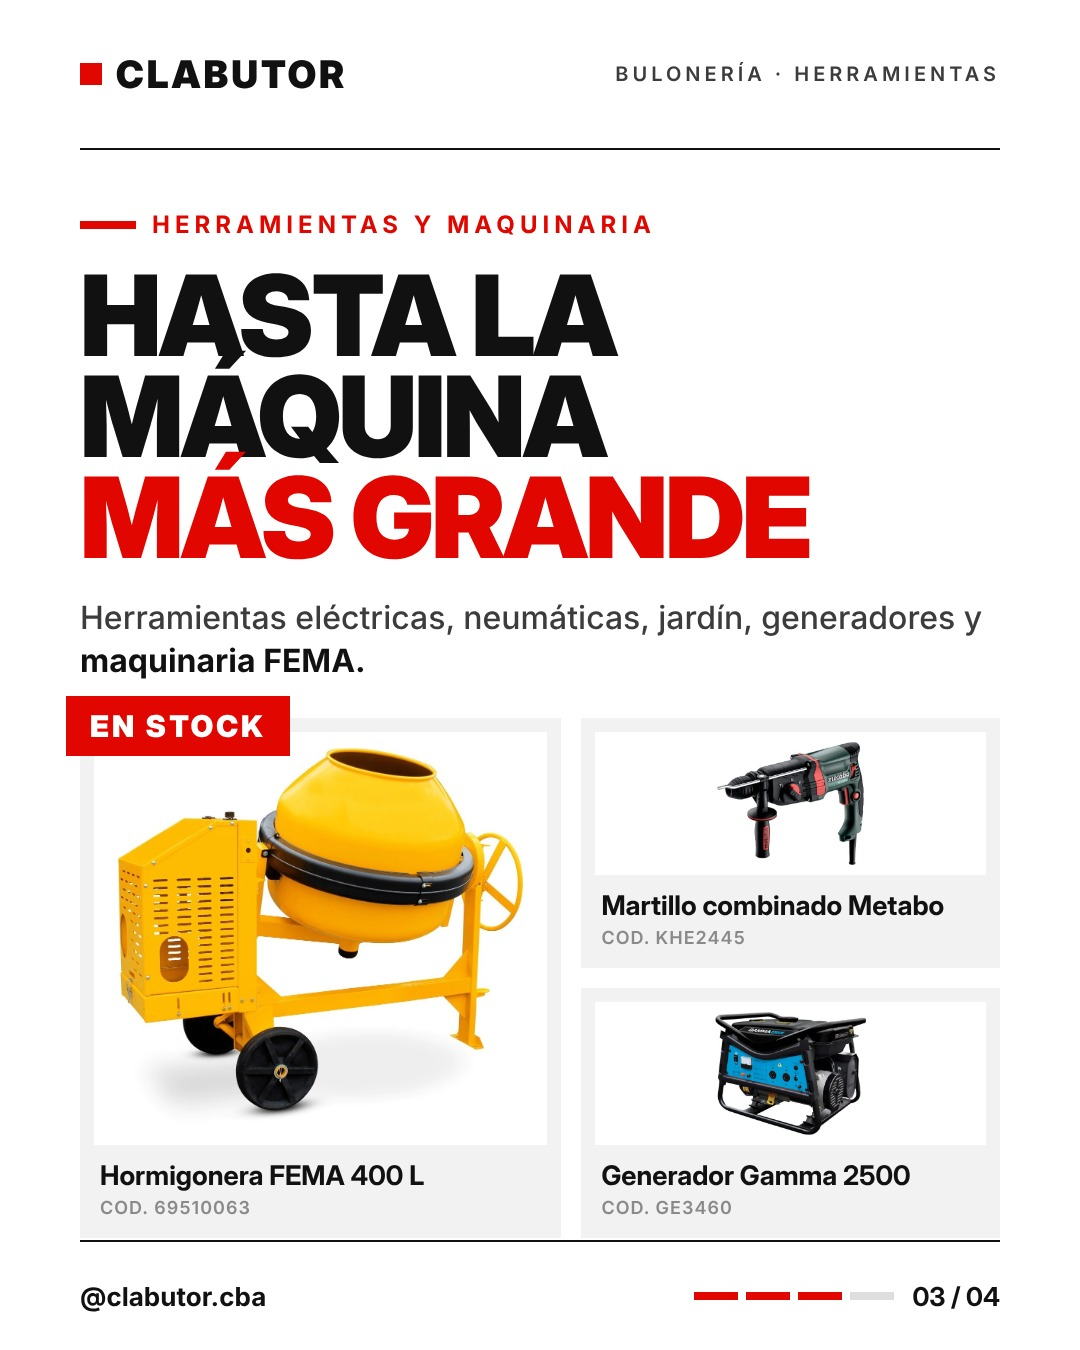
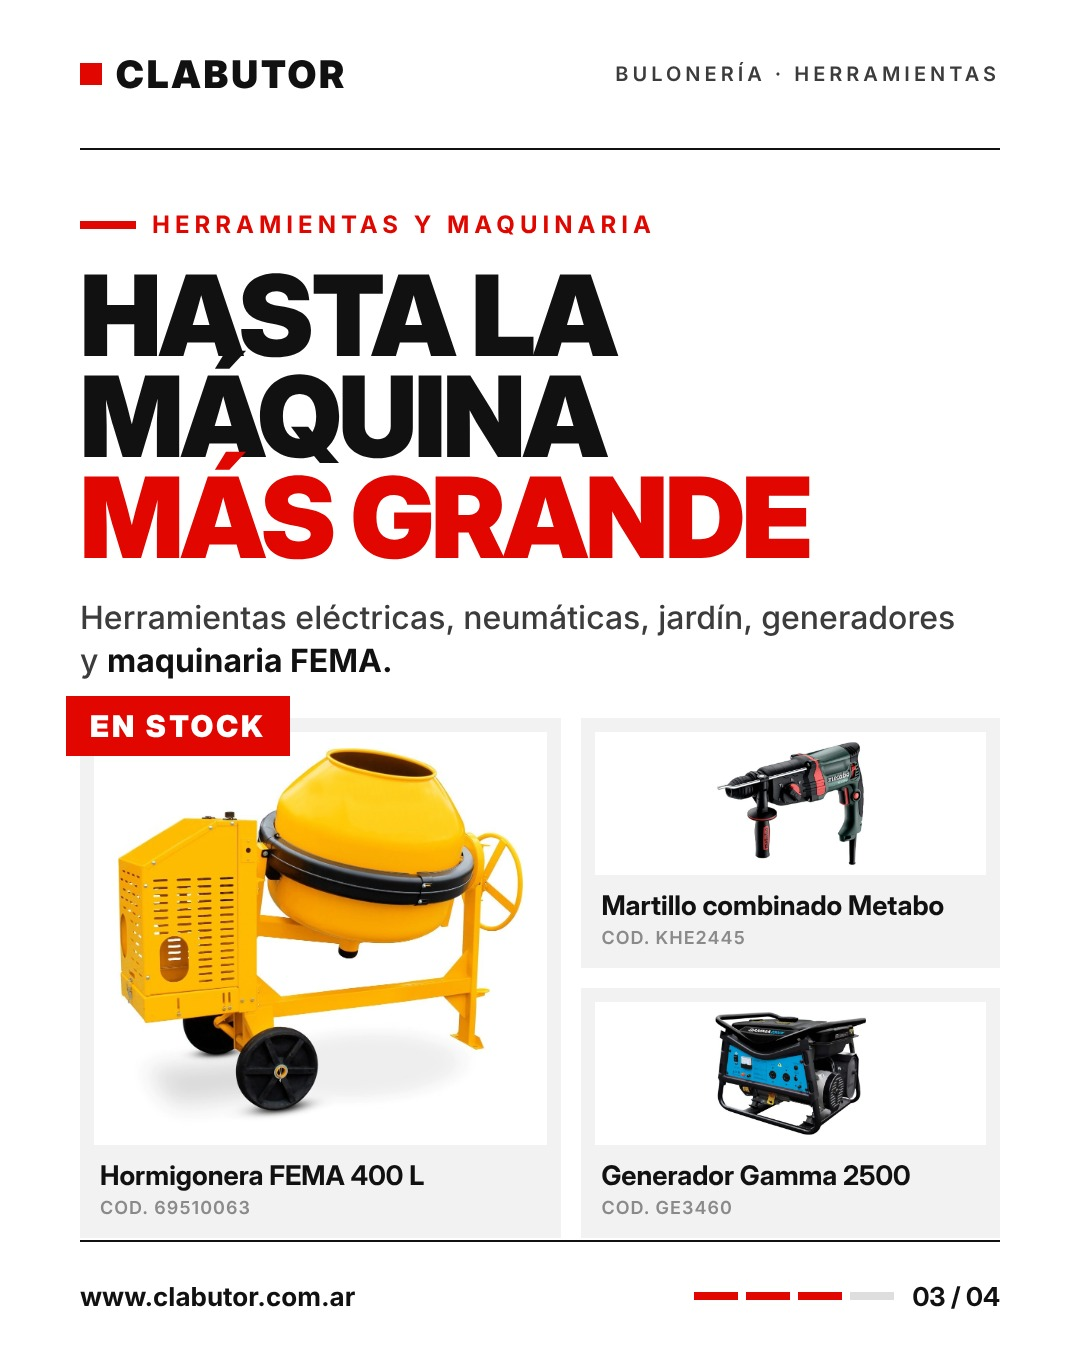
Posteo 1: web en el pie, sin repeticiones ni palabras sueltas; reglas de diseño
Claude-Session: https://claude.ai/code/session_01XbJLpPx7CCs1ipZpL6GiAh

Changed region(s): [[0.0611, 0.4667, 0.3667, 0.4978], [0.0611, 0.9333, 0.3361, 0.9644], [0.8861, 0.4356, 0.9167, 0.4667]]

diff --git a/disenos/estilo.css b/disenos/estilo.css
@@ -40,6 +40,7 @@ body { background: var(--blanco); color: var(--negro); font-family: "Texto", san
 h1 { font-family: "Titular"; font-weight: 900; text-transform: uppercase; line-height: .9; letter-spacing: -3px; margin-top: 26px; }
 h1 em { font-style: normal; color: var(--rojo); }
 .bajada { font-weight: 500; font-size: 36px; line-height: 1.32; color: var(--gris-texto); margin-top: 30px; }
+.bajada, .nombre, p { text-wrap: pretty; }
 .bajada b { color: var(--negro); font-weight: 700; }
 
 /* Tarjetas de producto */

diff --git a/disenos/posteos/posteo-01.py b/disenos/posteos/posteo-01.py
@@ -33,7 +33,7 @@ def placas(g):
     p2 = f'''
 <div class="volanta">Bulonería</div>
 <h1 style="font-size:112px">Desde el<br>tornillo<br><em>más chico</em></h1>
-<p class="bajada" style="font-size:32px">Bulones, tornillos, tuercas, arandelas, tacos y varillas. <b>Métricos, pulgadas, inoxidable y grado 8.8.</b></p>
+<p class="bajada" style="font-size:32px">Bulones, tornillos, tuercas, arandelas, tacos y varillas.<br><b>Métricos, pulgadas, inoxidable y grado 8.8.</b></p>
 <div style="display:grid;grid-template-columns:repeat(6,1fr);gap:10px;height:150px;margin-top:34px">{iconos}</div>
 <div style="display:grid;grid-template-columns:1fr 1fr;gap:20px;height:300px;margin-top:20px">{g.tarjeta(P2[0])}{g.tarjeta(P2[1])}</div>
 '''
@@ -41,7 +41,7 @@ def placas(g):
     p3 = f'''
 <div class="volanta">Herramientas y maquinaria</div>
 <h1 style="font-size:112px">Hasta la<br>máquina<br><em>más grande</em></h1>
-<p class="bajada" style="font-size:32px">Herramientas eléctricas, neumáticas, jardín, generadores y <b>maquinaria FEMA.</b></p>
+<p class="bajada" style="font-size:32px">Herramientas eléctricas, neumáticas, jardín, generadores<br>y <b>maquinaria FEMA.</b></p>
 <div style="position:relative;display:grid;grid-template-columns:1.15fr 1fr;grid-template-rows:1fr 1fr;gap:20px;height:520px;margin-top:36px">
   {g.tarjeta(P3[0], "grid-row:1 / span 2")}{g.tarjeta(P3[1])}{g.tarjeta(P3[2])}
   <div class="etiqueta" style="position:absolute;top:-22px;left:-14px">EN STOCK</div>
@@ -51,15 +51,12 @@ def placas(g):
     p4 = f'''
 <div class="volanta">Todo el país</div>
 <h1 style="font-size:124px">Más de<br><em>10.000</em><br>productos</h1>
-<div style="display:flex;justify-content:space-between;margin-top:34px">
-  <div style="width:470px">
-    <p class="bajada" style="font-size:32px;margin-top:0"><b>Casa central y sucursal en Córdoba.</b> Envíos a todo el país.</p>
-    <div style="background:#111;color:#fff;padding:36px 34px;margin-top:44px">
-      <div style="font-family:Titular;font-weight:900;font-size:46px;line-height:1.02;letter-spacing:-1px">Al mundo le falta un tornillo y <span style="color:#E10600">Clabutor</span> lo tiene.</div>
-    </div>
-    <div style="margin-top:30px;font-weight:700;font-size:28px">clabutor.com.ar</div>
+<p class="bajada" style="font-size:34px"><b>Casa central y sucursal en Córdoba.</b><br>Retiro en sucursal o entrega a domicilio.</p>
+<div style="display:flex;justify-content:space-between;align-items:flex-start;margin-top:40px">
+  <div style="width:560px;background:#111;color:#fff;padding:40px 38px;margin-top:20px;white-space:nowrap">
+    <div style="font-family:Titular;font-weight:900;font-size:50px;line-height:1.02;letter-spacing:-1px">Al mundo le falta<br>un tornillo…<br>y <span style="color:#E10600">Clabutor</span> lo tiene.</div>
   </div>
-  <div style="margin-top:-10px;margin-right:-60px">{g.svg_mapa(300, [(-64.18, -31.42, "Córdoba")])}</div>
+  <div style="margin-top:-10px;margin-right:-40px">{g.svg_mapa(215, [(-64.18, -31.42, "Córdoba")])}</div>
 </div>
 '''
     return [p1, p2, p3, p4]

diff --git a/disenos/generar.py b/disenos/generar.py
@@ -97,7 +97,7 @@ def marco(cuerpo, n, total, rubro):
 <body><div class="placa">
 <div class="encabezado"><div class="marca"><i></i>CLABUTOR</div><div class="rubro">{e(rubro)}</div></div>
 {cuerpo}
-<div class="pie"><div class="usuario">@clabutor.cba</div><div class="progreso"><div class="barras">{barras}</div>{n:02d} / {total:02d}</div></div>
+<div class="pie"><div class="usuario">www.clabutor.com.ar</div><div class="progreso"><div class="barras">{barras}</div>{n:02d} / {total:02d}</div></div>
 </div></body></html>'''
 
 

diff --git a/disenos/REGLAS.md b/disenos/REGLAS.md
@@ -1,0 +1,26 @@
+# Reglas de diseño y redacción — Clabutor (@clabutor.cba)
+
+## Contenido
+- Los contenidos se sacan siempre tal cual indica MARKETING PRODUCTOS CONTENIDO para la cuenta de Clabutor.
+
+## Diseño (siempre constante)
+- Mismo sistema para todos los posteos: `estilo.css` (fondo blanco, negro y rojo #E10600, tipografía Inter), placas JPG 1080×1350.
+- Encabezado: marca CLABUTOR a la izquierda y rubro a la derecha.
+- Pie: **www.clabutor.com.ar abajo a la izquierda** (no poner @clabutor.cba). Progreso de placas a la derecha.
+- Fotos de producto en `productos/<SKU>.jpg`, recortadas al producto (sin margen blanco). Se descargan solas listando los SKU en `productos/pedido.txt`.
+
+## Redacción
+- No repetir el mismo tema en una placa: si la volanta dice "Todo el país", la bajada no repite "envíos a todo el país" (usar otra cosa, p. ej. "Retiro en sucursal o entrega a domicilio").
+- No repetir el link de la web dentro de la placa, porque ya está en el pie. Solo va en el cuerpo si es el título principal o una referencia tipo "Visitá nuestra web" / "Mirá lo que tenemos para vos en la web".
+- Nada de palabras solas en un renglón. Cortar por frase u oración completa, con `<br>` donde haga falta:
+
+      Casa central y sucursal en Córdoba.
+      Envíos a todo el país.
+
+  y no:
+
+      Casa central y sucursal en
+      Córdoba. Envíos a todo el
+      país.
+
+- Revisar siempre el render antes de publicar para confirmar que ningún renglón quede con una palabra suelta ni que nada se superponga.
